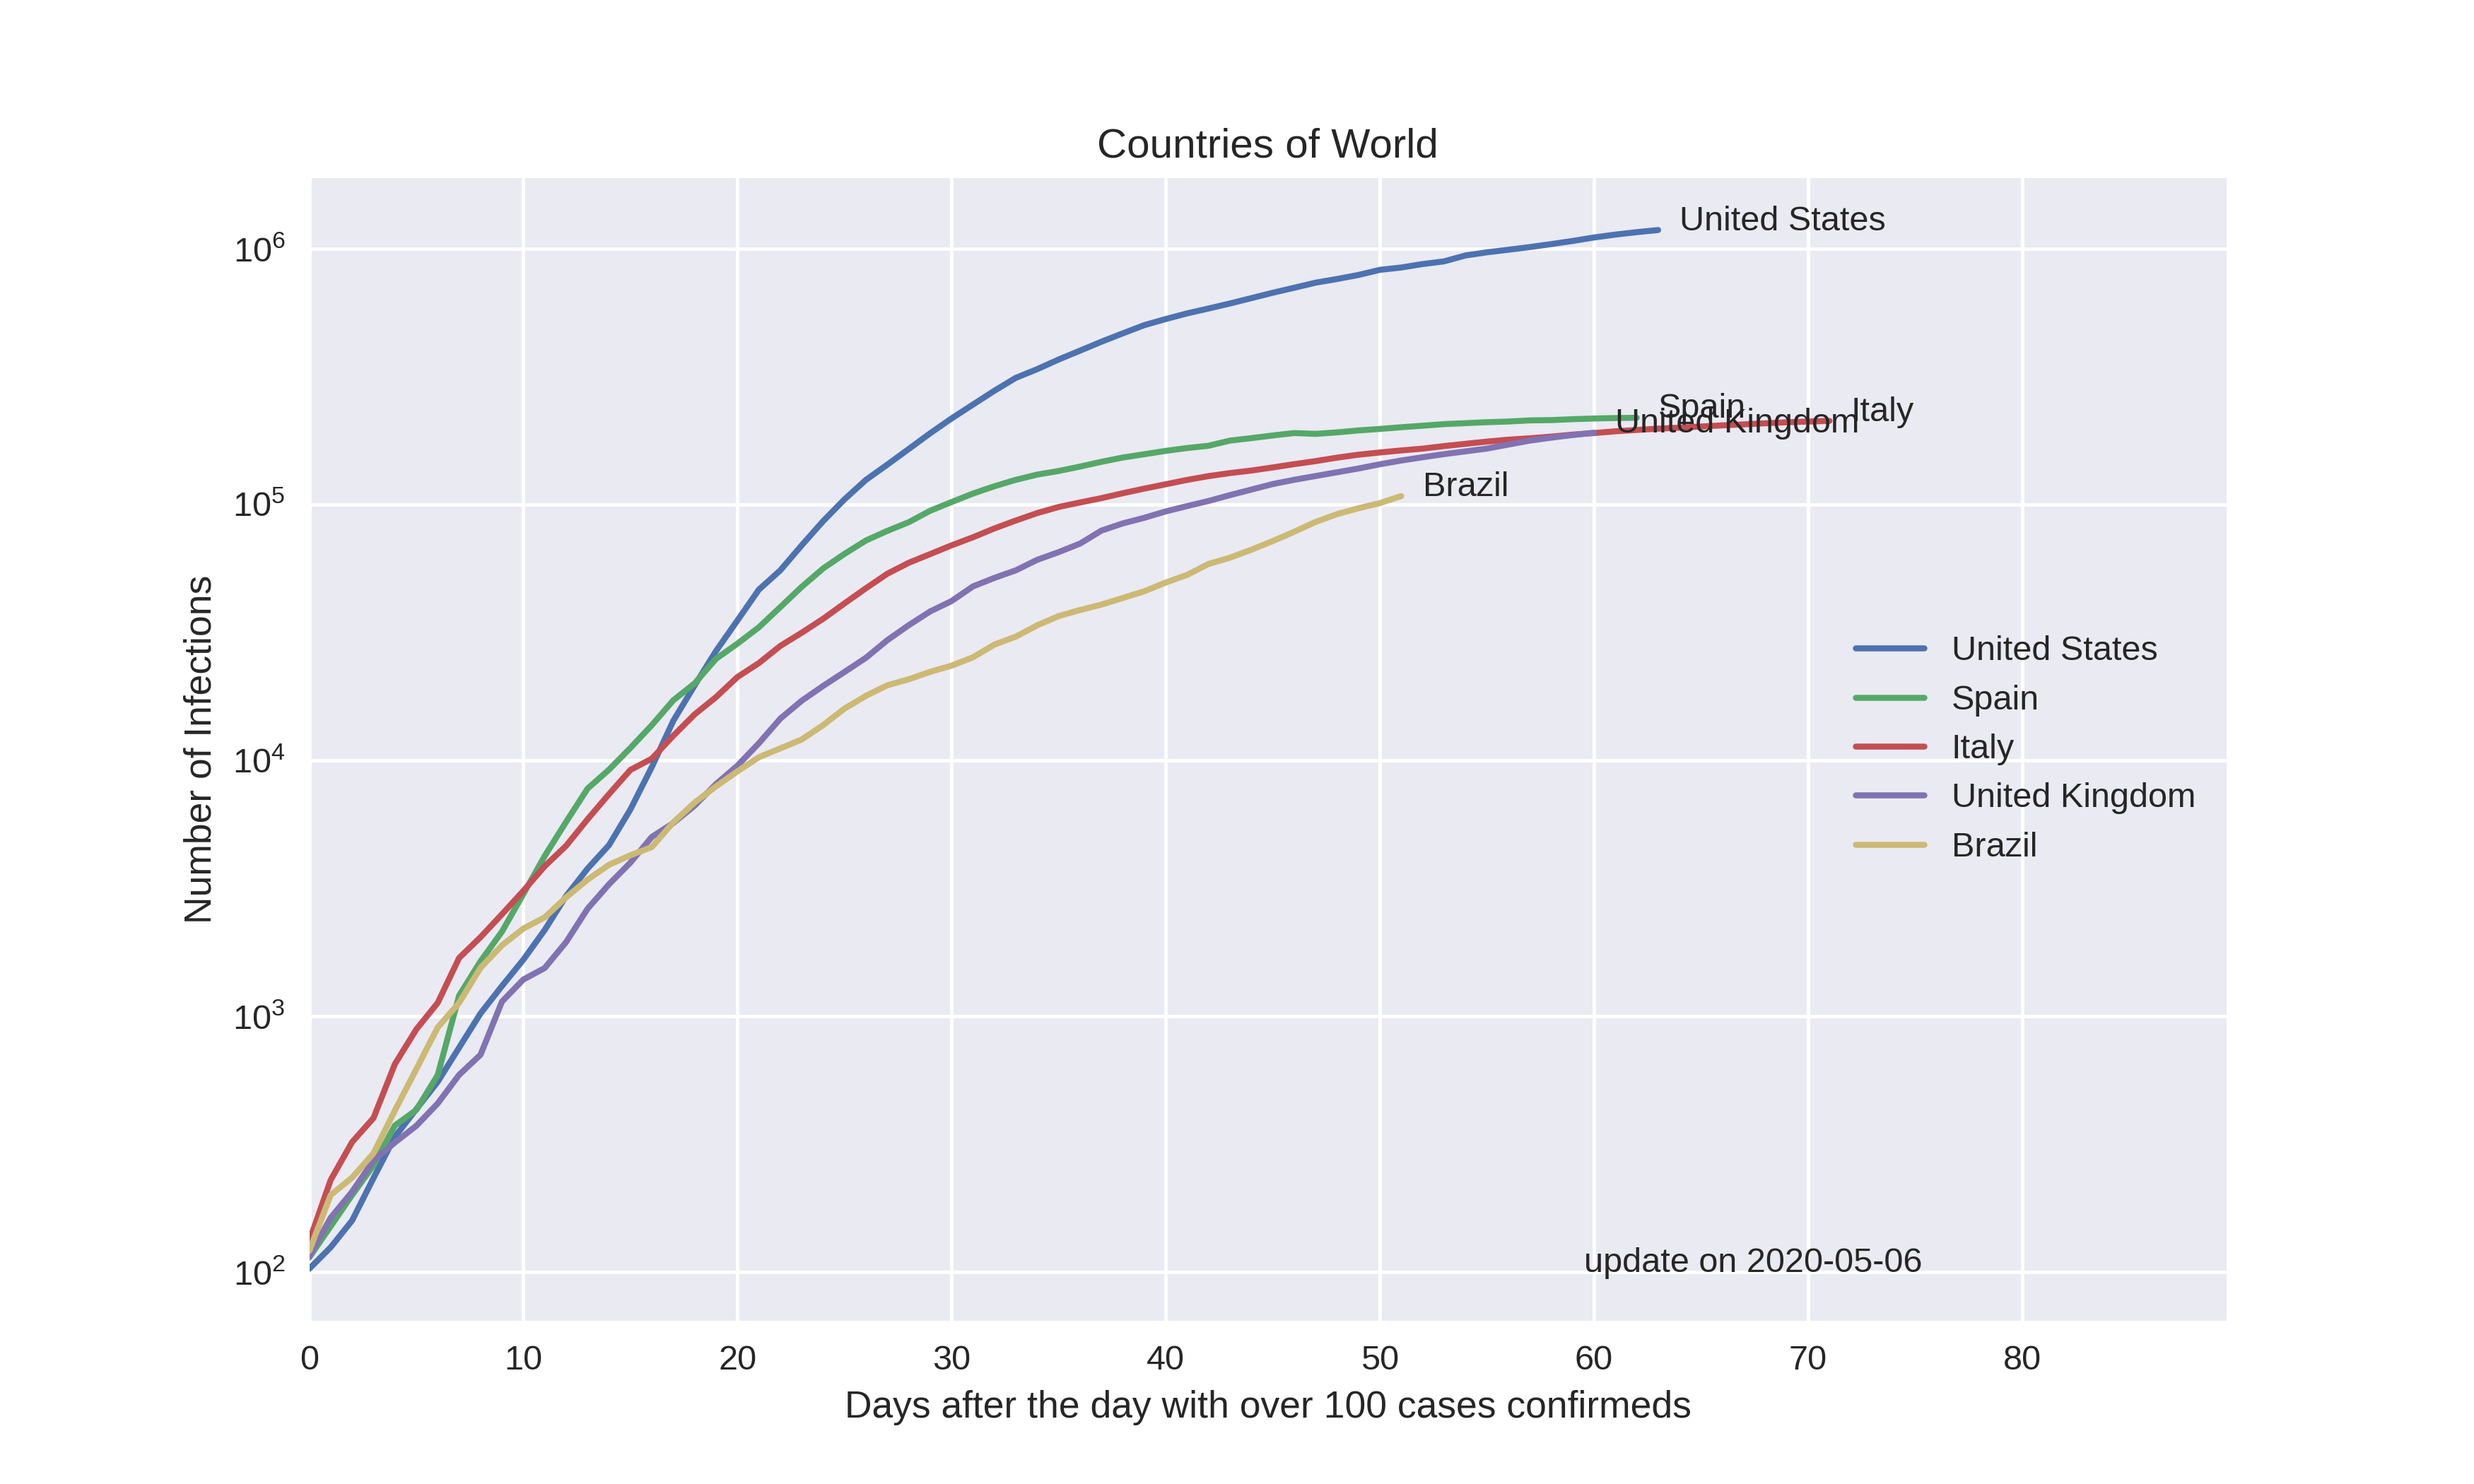
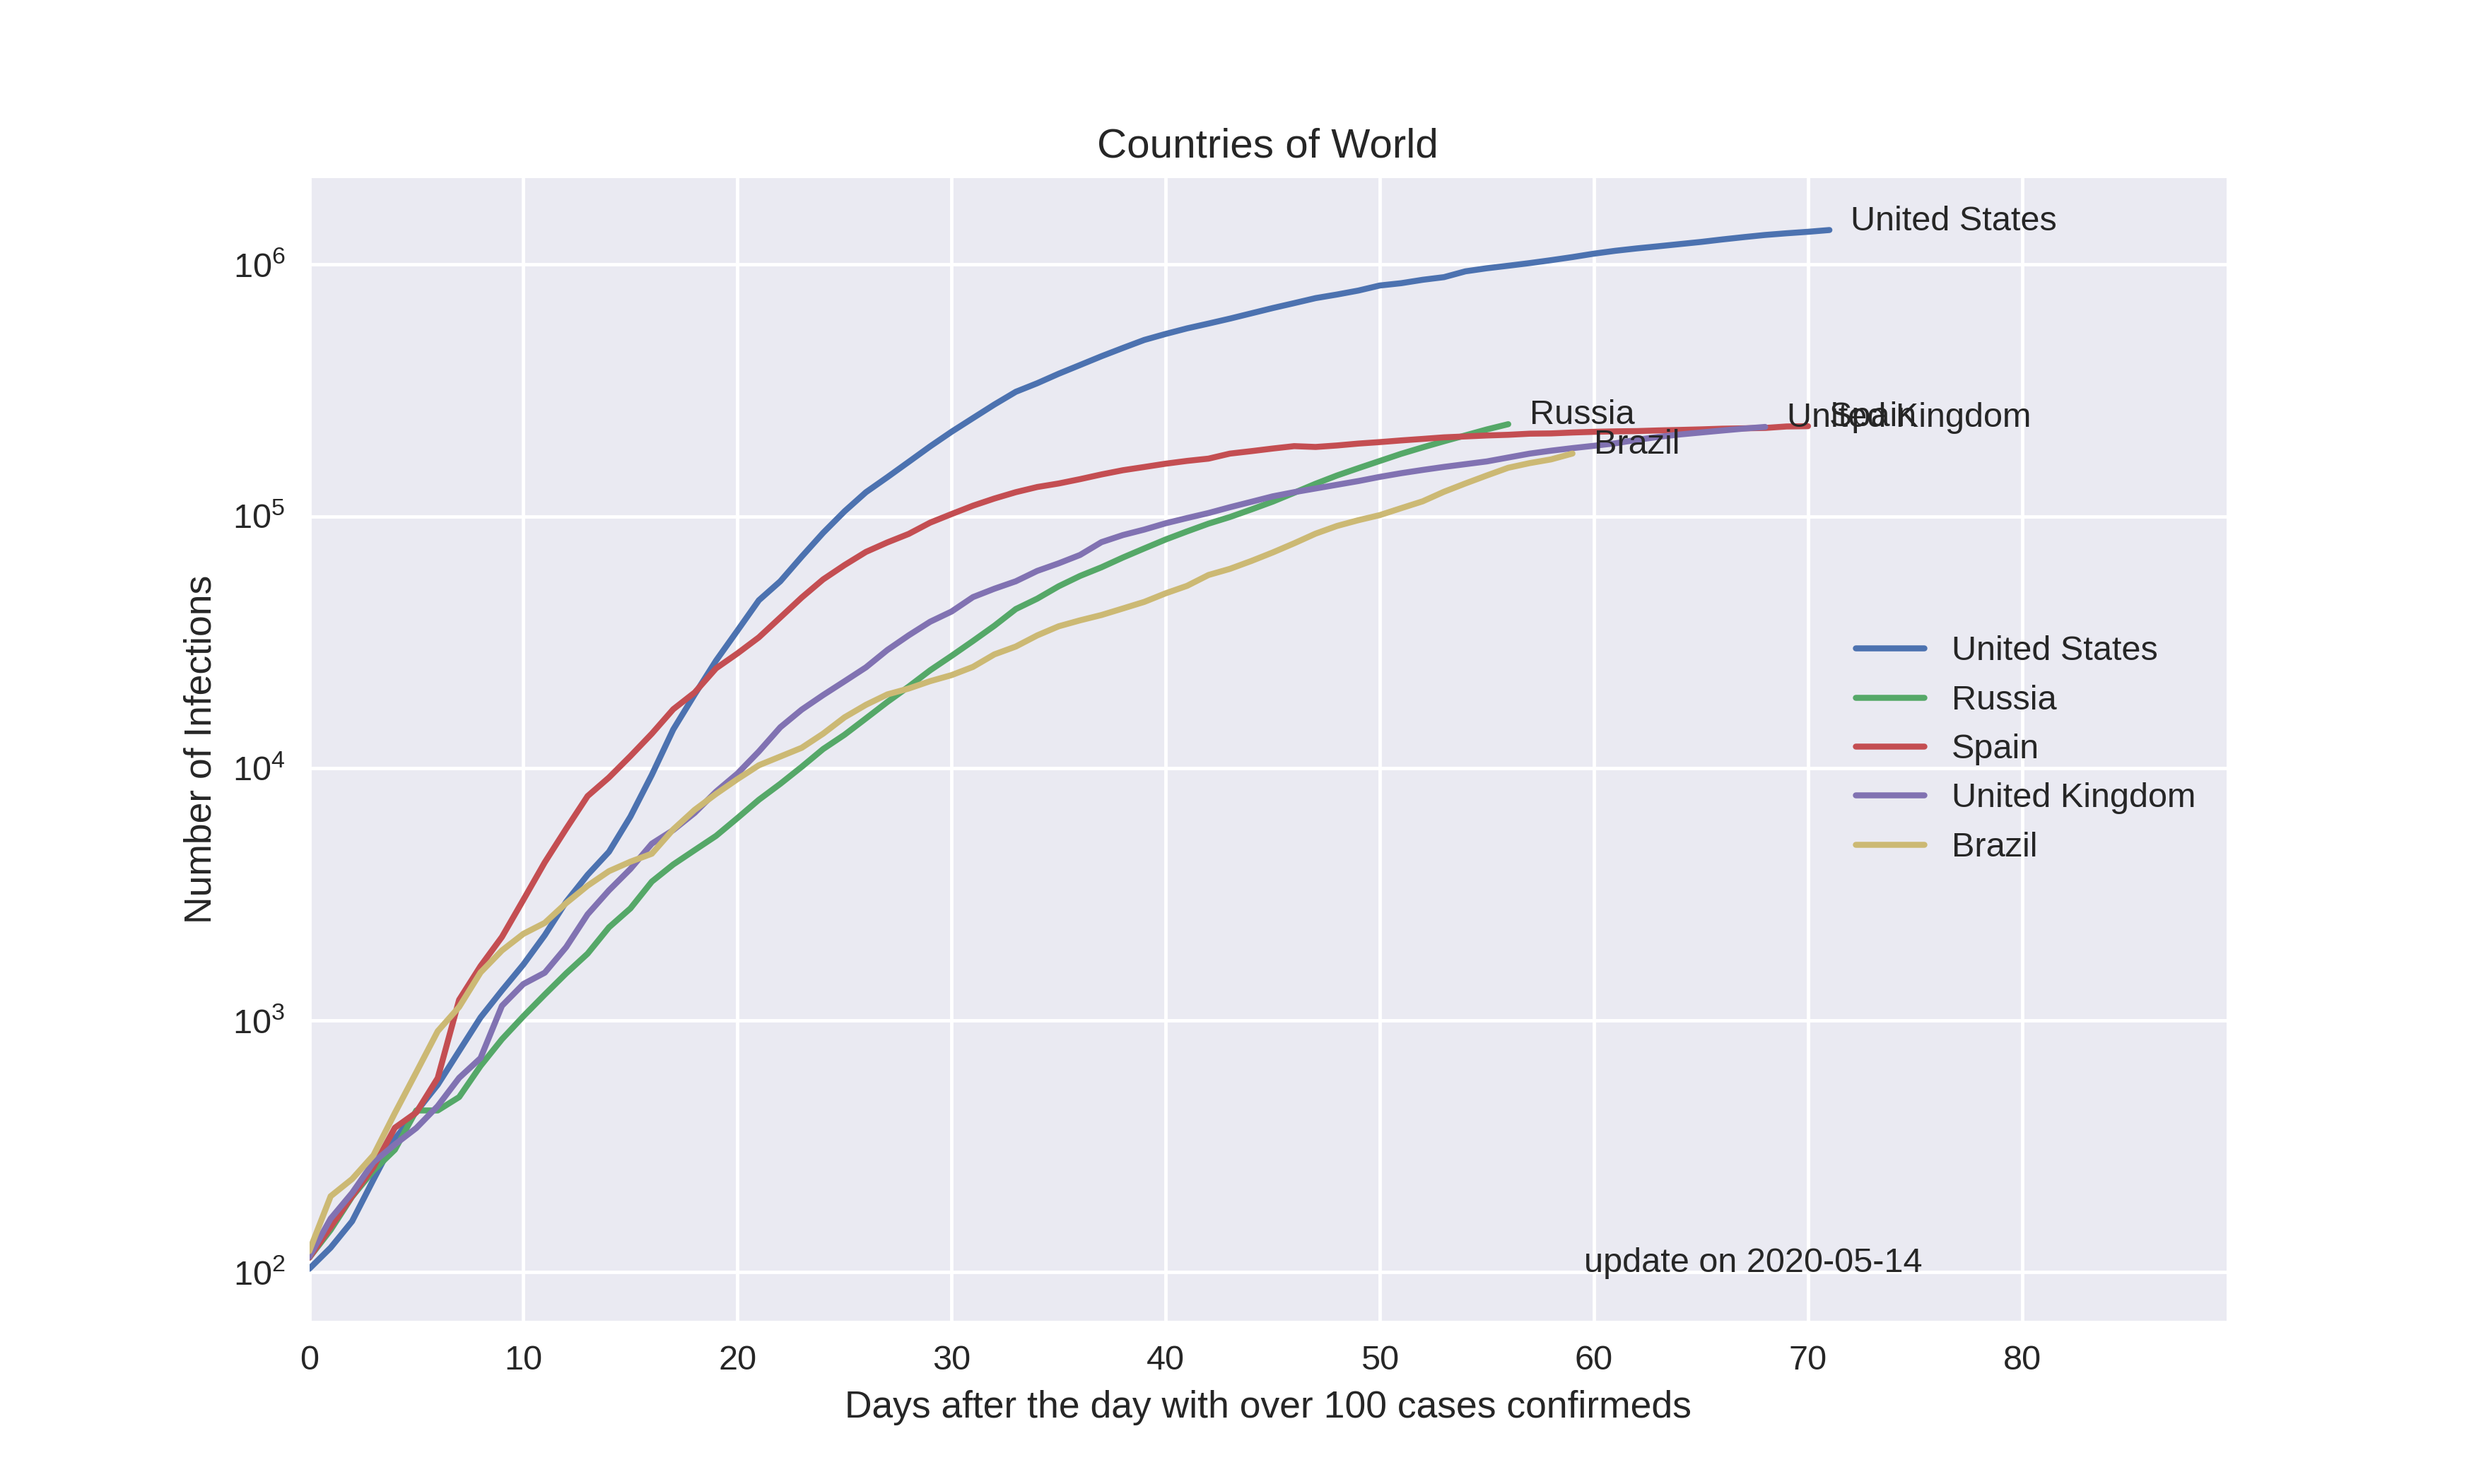
update image automake Brazil world

diff --git a/Corona-Brazil.py b/Corona-Brazil.py
@@ -27,11 +27,11 @@ plt.style.use('seaborn')
 data = pd.read_csv("https://covid.ourworldindata.org/data/ecdc/full_data.csv")
 
 # data from 🔅 Worldometers:
-Cases =  30425. #❗(103 novos)
-Deaths = 1924 #❗(11 novos) 😔
-Recupered = 4390
-txfa = Deaths/Cases
-txre = Recupered/Cases
+# Cases =  30425. #❗(103 novos)
+# Deaths = 1924 #❗(11 novos) 😔
+# Recupered = 4390
+# txfa = Deaths/Cases
+# txre = Recupered/Cases
 
 total_data = data.copy()
 
@@ -41,30 +41,32 @@ ctry = data[data["location"] == 'Brazil']
 tested = ctry.copy()
 
 # create a arrays for curve fit parameters of a exponential equation
-xdays = []
-ydata = []
+# xdays = []
+# ydata = []
 dateCase=[]
-today=datetime.now().date()
-offsetcases = 1000.
-ndays=10
-################################### Cases #####
-cond_idx = tested.index[np.where(tested["total_cases"]>offsetcases)]
-case1 = cond_idx[0]
-ndate = cond_idx
-########################################
-for ib in enumerate(ndate):
-    if tested["total_cases"][cond_idx[ib[0]]] >= offsetcases:
-        selday = (ib[1]-case1).days == np.arange(0,len(cond_idx)+ndays,ndays)
-        if True in selday:
-            xdays.append((ib[1]-case1).days)
-            ydata.append(tested["total_cases"][cond_idx[ib[0]]])
-            dateCase.append(tested["date"][cond_idx[ib[0]]])
+# today=datetime.now().date()
+# offsetcases = 1000.
+# ndays=10
+# ################################### Cases #####
+# cond_idx = tested.index[np.where(tested["total_cases"]>offsetcases)]
+# case1 = cond_idx[0]
+# ndate = cond_idx
+# ########################################
+# for ib in enumerate(ndate):
+#     if tested["total_cases"][cond_idx[ib[0]]] >= offsetcases:
+#         selday = (ib[1]-case1).days == np.arange(0,len(cond_idx)+ndays,ndays)
+#         if True in selday:
+#             xdays.append((ib[1]-case1).days)
+#             ydata.append(tested["total_cases"][cond_idx[ib[0]]])
+#             dateCase.append(tested["date"][cond_idx[ib[0]]])
+# >>>>>>>>>
 
 # do fiting
-ydata = np.array(ydata)
-xdata = np.array(xdays)
+ydata = tested.last("13D").total_cases.values
+xdata = np.arange(len(ydata))
+ndate = tested.last("1D").index[0]
 for i in range(5):
-    dateCase.append((ndate[-1]+timedelta(days=i)).date())
+    dateCase.append((ndate+timedelta(days=i)).date())
 dateCase = pd.to_datetime(dateCase)
 # ajuste exponencial com a func, dos dasos xdata e ydata Brasil
 from scipy.optimize import curve_fit
@@ -73,15 +75,17 @@ def func(x, a, b, c):
 poptbr, pcovbr = curve_fit(func, xdata, ydata)
 perrbr = np.sqrt(np.diag(pcovbr))
 # Forecast 5 days
-ultimo = (ndate[-1]-case1).days
+# ultimo = (ndate-case1).days
+# prbrxdata = np.arange(ultimo-1,ultimo+4)
+ultimo = len(xdata)
 prbrxdata = np.arange(ultimo-1,ultimo+4)
 prbrdata = func(prbrxdata, *poptbr)
 
 serro = func(prbrxdata, *(poptbr+perrbr))
 ierro = func(prbrxdata, *poptbr-perrbr)
-
-dprevisto = (today-case1.date()).days
-hojebr = (func(dprevisto, *poptbr))
+today = len(xdata)
+dprevisto = today
+hojebr = func(dprevisto, *poptbr)
 
 # Graphic Brazil
 
@@ -114,7 +118,7 @@ fig.savefig("log_data_forecast_brazil.png",dpi=350)
 #  Countreis of South America
 ############################SA##############
 ############################SA##############
-
+today=datetime.now().date()
 sa = ['Argentina', 'Bolivia', 'Brazil', 'Chile', 'Colombia', 'Ecuador', 'Falkland Islands', 'French Guiana', 
       'Guyana', 'Paraguay', 'Peru', 'Suriname', 'Uruguay', 'Venezuela']
 sa = sorted(sa)
